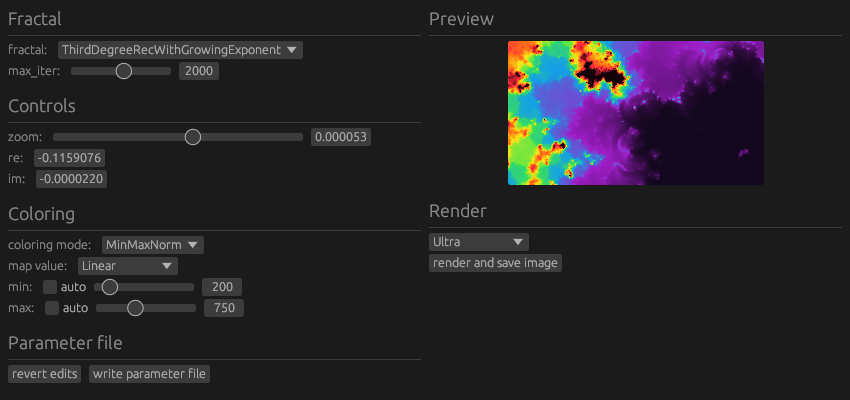
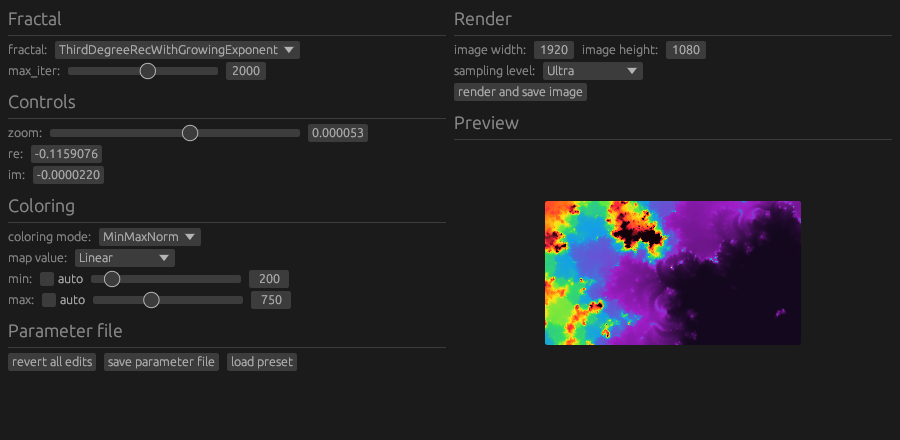
Update readme and add new preset

diff --git a/src/gui.rs b/src/gui.rs
@@ -621,10 +621,10 @@ impl App for Gui {
                         }
                     } else {
                         if let Some((text, start)) = &self.message {
-                            const MESSAGE_DISPLAY_TIME: Duration = Duration::from_secs(8);
+                            const MESSAGE_DISPLAY_TIME: Duration = Duration::from_secs(5);
                             ui.label(text);
                             if start.elapsed() > MESSAGE_DISPLAY_TIME {
-                                self.message = None
+                                self.message = None;
                             }
                         }
                     }

diff --git a/README_PKG.md b/README_PKG.md
@@ -20,7 +20,7 @@ Otherwise, you can download the latest executable from the [releases tab](https:
 
 # How to use
 
-Create a RON parameter file with the following structure (see [parameter file reference](./REFERENCE.md) and [preset renders](#preset-renders)):
+Create a RON parameter file with the following structure (see [parameter file reference](/REFERENCE.md) and [preset renders](#preset-renders)):
 
 ```rust
 Frame((
@@ -54,7 +54,7 @@ Then, either ...
 - ... render the fractal:
 
   ```
-  ./fractal_rndr path/to/param_file.ron path/to/output_image.png
+  fractal_rndr path/to/param_file.ron path/to/output_image.png
   ```
 
   > Alternatively, if you have rust installed and downloaded this repository:
@@ -63,10 +63,10 @@ Then, either ...
   > cargo run -r -- fractal.ron fractal.png
   > ```
 
-- ... start the gui:
+- ... start the gui using the `--gui` option:
 
   ```
-  ./fractal_rndr path/to/param_file.ron path/to/output_image.png --gui
+  fractal_rndr path/to/param_file.ron path/to/output_image.png --gui
   ```
 
   The app looks like this:

diff --git a/README.md b/README.md
@@ -66,7 +66,7 @@ Then, either ...
   > cargo run -r -- fractal.ron fractal.png
   > ```
 
-- ... start the gui:
+- ... start the gui using the `--gui` option:
 
   ```
   fractal_rndr path/to/param_file.ron path/to/output_image.png --gui
